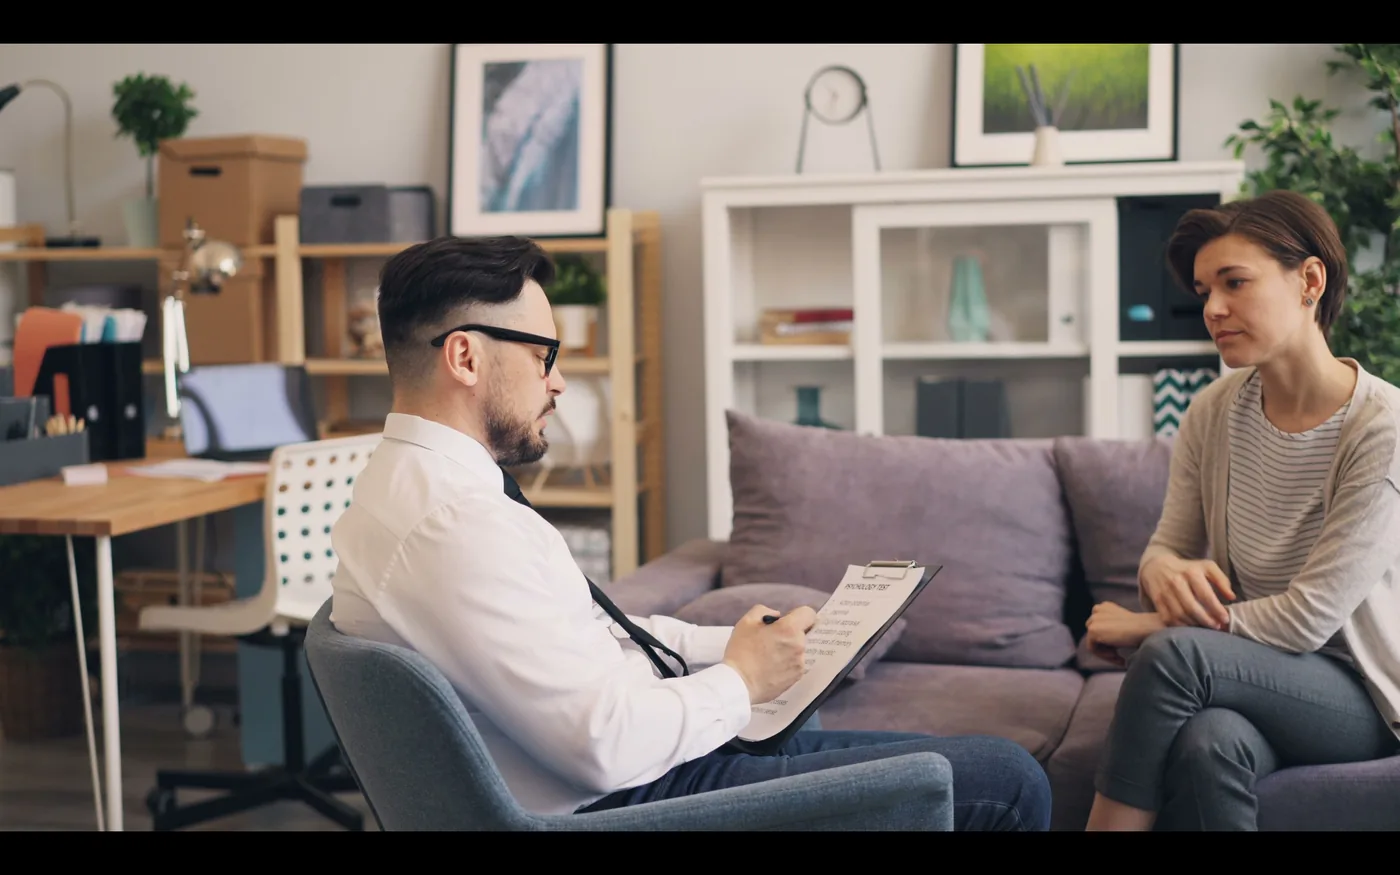
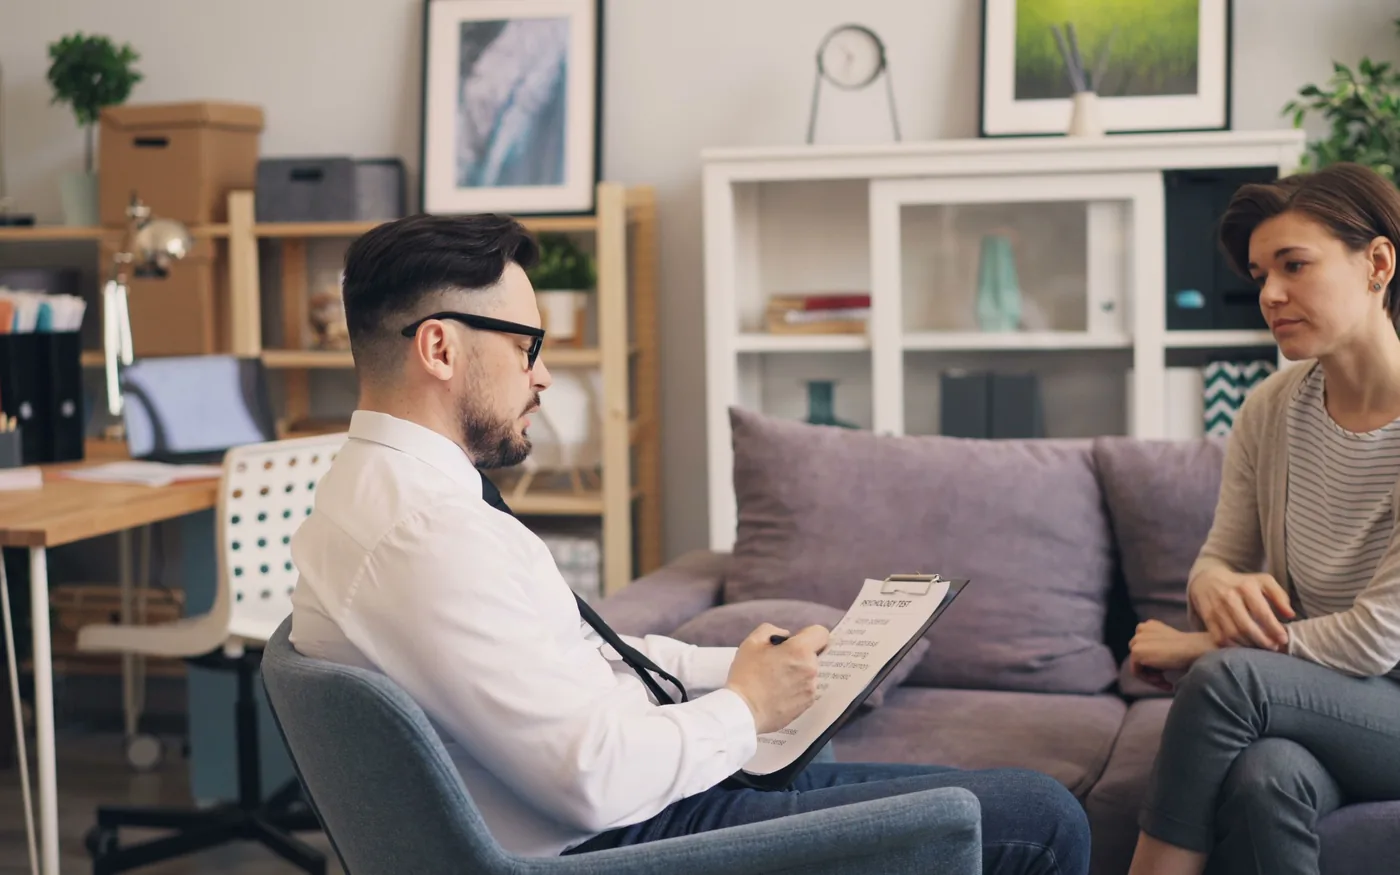
Historia: la rafaga vuelve a soplar en cada entrada, y dos fotos
LA RAFAGA. Soplaba una sola vez por carga de pagina. El rearme vivia
dentro del bucle de scroll y comparaba el avance contra un umbral bien
mas alla de las puntas del recorrido, pero a ese bucle lo apaga el
observador de interseccion mucho antes de llegar a ese umbral: la
condicion no se cumplia nunca. Ahora el rearme esta en el propio
observador, al salir de la seccion, que ademas es donde corresponde.
Verificado entrando tres veces seguidas: sopla las tres.

De paso la rafaga es mas densa —de 46 a 62 hojas, tres segundos y pico,
hojas un poco mas grandes y mas opacas— para que no pase inadvertida.

ODONTOPEDIATRIA. La foto del servicio pasa a ser la que dejaste en
public: un chico sonriendo en el sillon con la odontopediatra. Se
reemplaza el archivo y no la ruta, asi que cambia en los cuatro lugares
donde aparece —grilla de la landing, listado de servicios, abanico del
hero y banner del detalle— sin tocar codigo.

VERDADERO OBJETIVO. Tenia una franja negra de 43 px arriba, y era mia:
al recortar pedi un alto de 1625 px sobre una fuente de 1463, asi que
el recorte se iba fuera de la imagen y ese sobrante salia en negro.
Ahora el recorte se calcula sobre el lado que manda.

diff --git a/src/components/shared/LeafGust.tsx b/src/components/shared/LeafGust.tsx
@@ -28,9 +28,9 @@ import { cn } from "@/lib/utils";
  */
 
 /** Cuántas hojas trae la ráfaga. */
-const HOJAS = 46;
+const HOJAS = 62;
 /** Cuánto dura, en segundos, desde la primera hoja hasta que se va la última. */
-const DURACION = 2.6;
+const DURACION = 3.1;
 
 type Hoja = {
   /** Cuándo entra, en segundos desde el disparo. */
@@ -87,7 +87,12 @@ function coloresDe(paleta: LeafPalette) {
     return nombre ? raiz.getPropertyValue(nombre).trim() : valor;
   };
   const p = leafPalettes[paleta];
-  return { edge: leer(p.edge), body: leer(p.body), core: leer(p.core), vein: leer(p.vein) };
+  return {
+    edge: leer(p.edge),
+    body: leer(p.body),
+    core: leer(p.core),
+    vein: leer(p.vein),
+  };
 }
 
 function cargarSprite(paleta: LeafPalette) {
@@ -111,14 +116,14 @@ function bandada(): Hoja[] {
       // Las primeras salen casi juntas y la cola se estira: así entra como
       // golpe de viento y no como desfile parejo.
       demora: a(1) ** 1.6 * 0.85,
-      vuelo: 0.95 + a(2) * 0.85,
+      vuelo: 1 + a(2) * 0.95,
       y: a(3),
       amplitud: 12 + a(4) * 46,
       fase: a(5) * Math.PI * 2,
-      largo: 26 + a(6) ** 1.7 * 74,
+      largo: 30 + a(6) ** 1.7 * 82,
       giro: a(7) * Math.PI * 2,
       vueltas: (a(8) - 0.5) * 2.4,
-      opacidad: 0.3 + a(9) * 0.4,
+      opacidad: 0.38 + a(9) * 0.44,
       beige: a(10) > 0.62,
     };
   });
@@ -173,7 +178,8 @@ export function LeafGust({ trigger, className }: LeafGustProps) {
 
         // De fuera del borde izquierdo a fuera del derecho.
         const x = (-0.15 + avance * 1.3) * ancho;
-        const y = hoja.y * alto + Math.sin(hoja.fase + avance * 5.5) * hoja.amplitud;
+        const y =
+          hoja.y * alto + Math.sin(hoja.fase + avance * 5.5) * hoja.amplitud;
         // Aparece y se desvanece en las puntas del recorrido.
         const alfa = Math.min(1, avance * 6, (1 - avance) * 4) * hoja.opacidad;
         const escala = hoja.largo / 120;

diff --git a/src/components/sections/HistoryTimeline.tsx b/src/components/sections/HistoryTimeline.tsx
@@ -198,9 +198,6 @@ export function HistoryTimeline() {
         disparada = true;
         setRafaga((n) => n + 1);
       }
-      // Se rearma recién cuando la sección quedó bien lejos, para que un
-      // temblor del scroll en el borde no dispare dos veces seguidas.
-      if (crudo < -0.35 || crudo > 1.35) disparada = false;
 
       // Interpolar y no saltar: la rueda de un mouse avanza de a tirones de
       // cien píxeles, y sin este suavizado el riel se movería a los saltos.
@@ -224,8 +221,19 @@ export function HistoryTimeline() {
       ([entrada]) => {
         if (entrada.isIntersecting === vivo) return;
         vivo = entrada.isIntersecting;
-        if (vivo) cuadro = requestAnimationFrame(animar);
-        else cancelAnimationFrame(cuadro);
+        if (vivo) {
+          cuadro = requestAnimationFrame(animar);
+        } else {
+          cancelAnimationFrame(cuadro);
+          // La ráfaga se rearma al salir de la sección, y tiene que ser acá.
+          // Antes se rearmaba dentro del bucle, comparando el avance contra un
+          // umbral bastante más allá de las puntas del recorrido; pero el
+          // bucle lo apaga este mismo observador mucho antes de llegar a ese
+          // umbral, así que la condición no se cumplía nunca y el viento
+          // soplaba una sola vez por carga de página. Volviendo a entrar no
+          // pasaba nada, que es justo lo que se veía.
+          disparada = false;
+        }
       },
       { rootMargin: "300px 0px" },
     );
